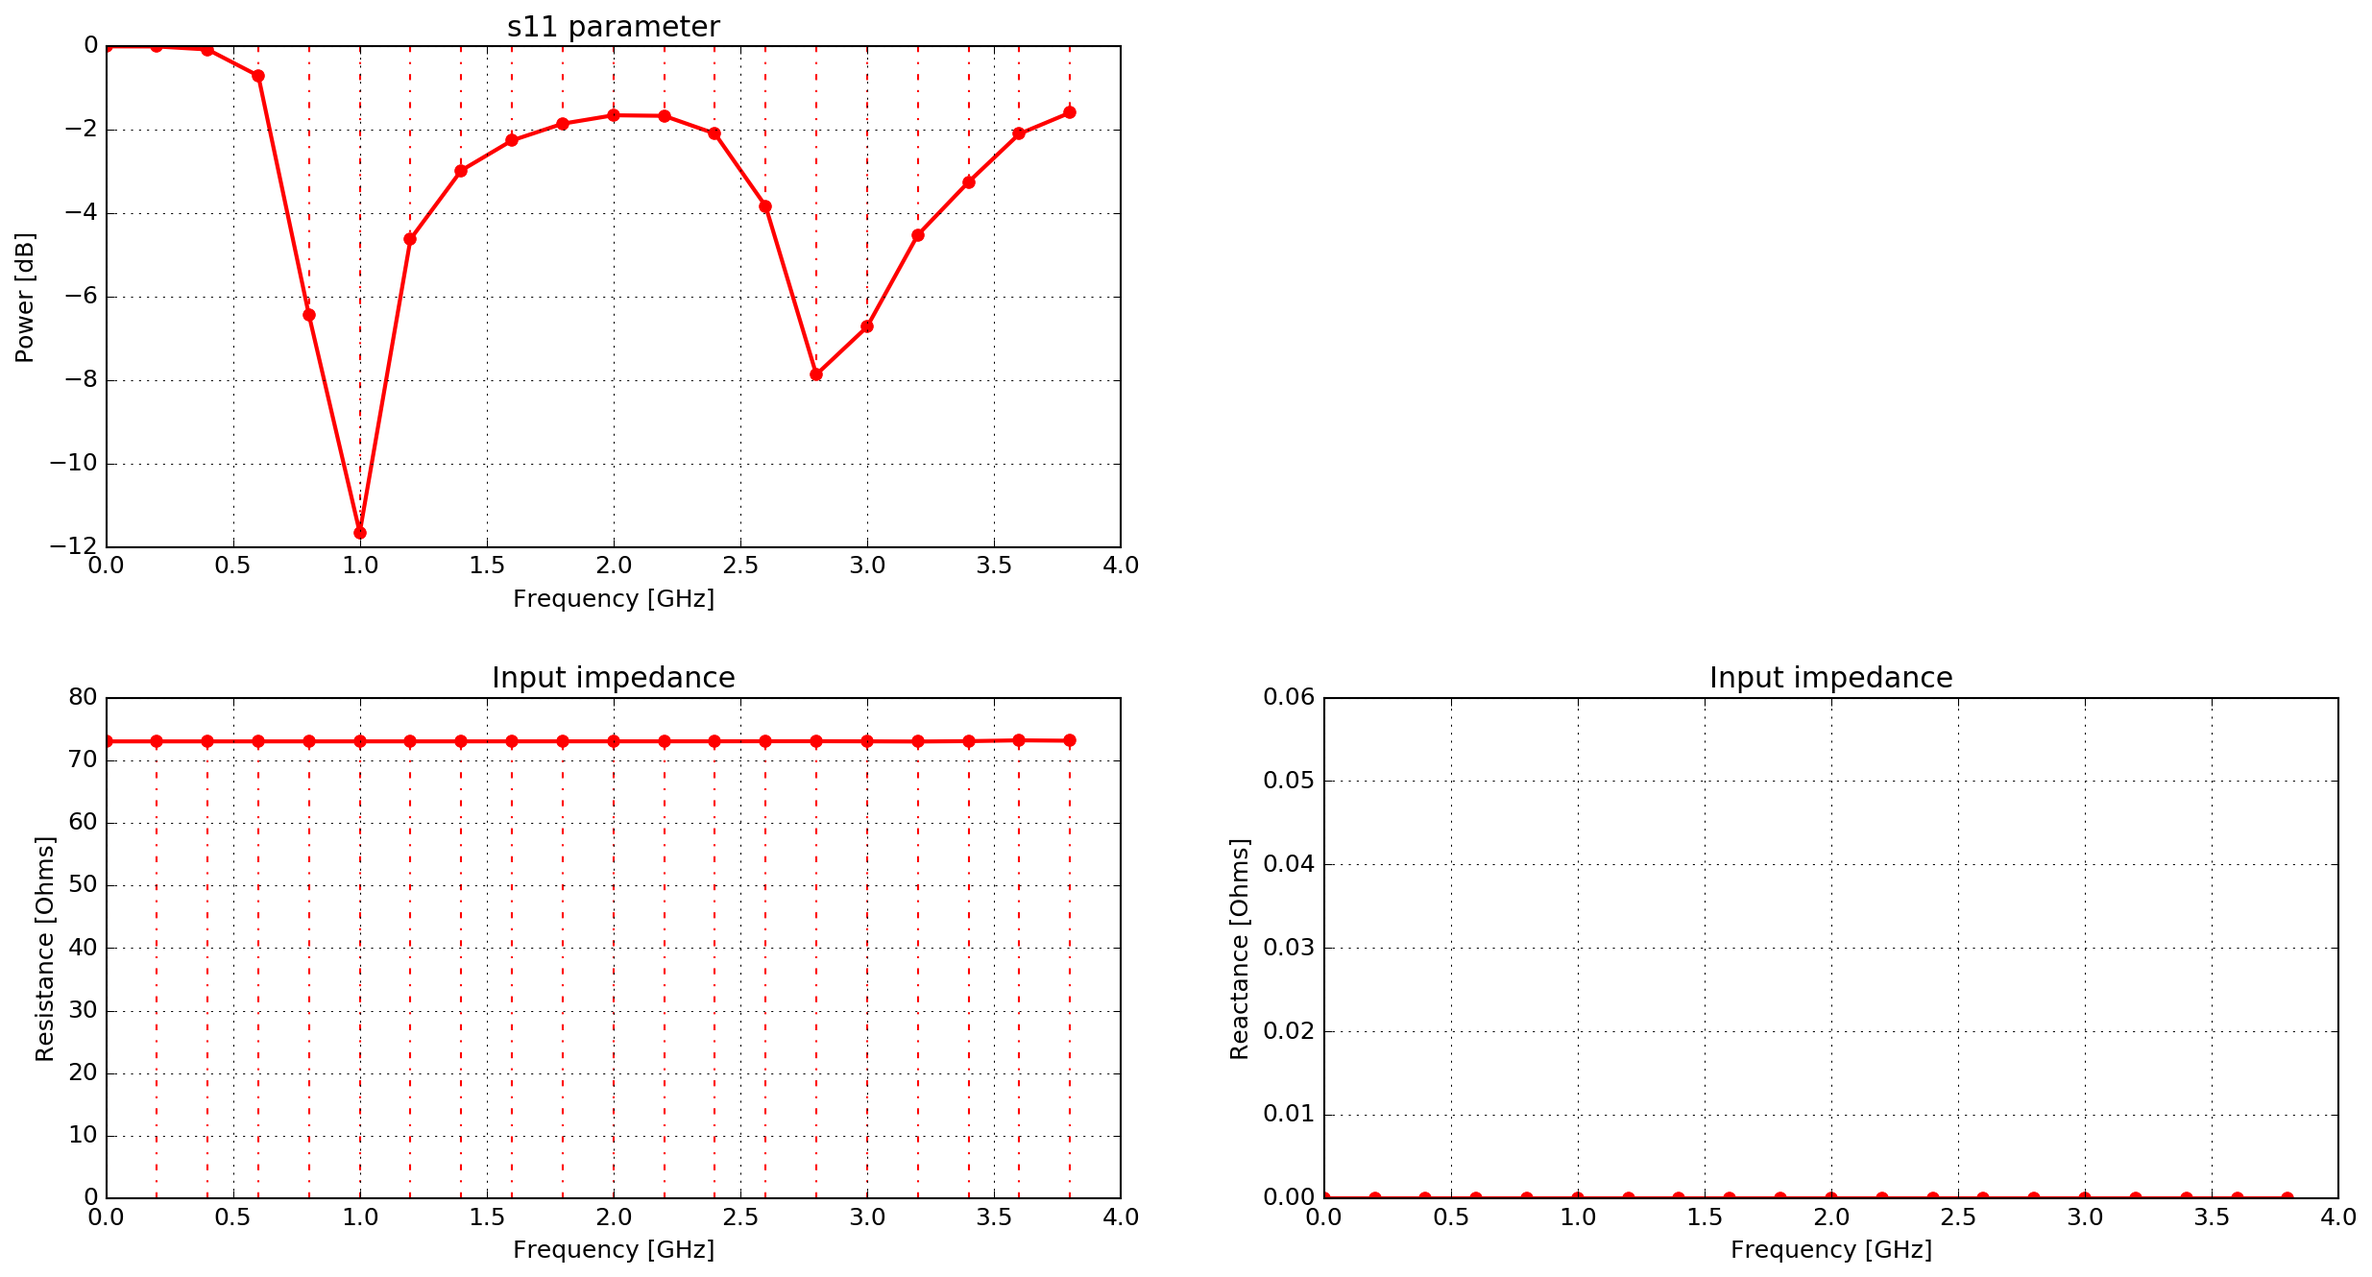
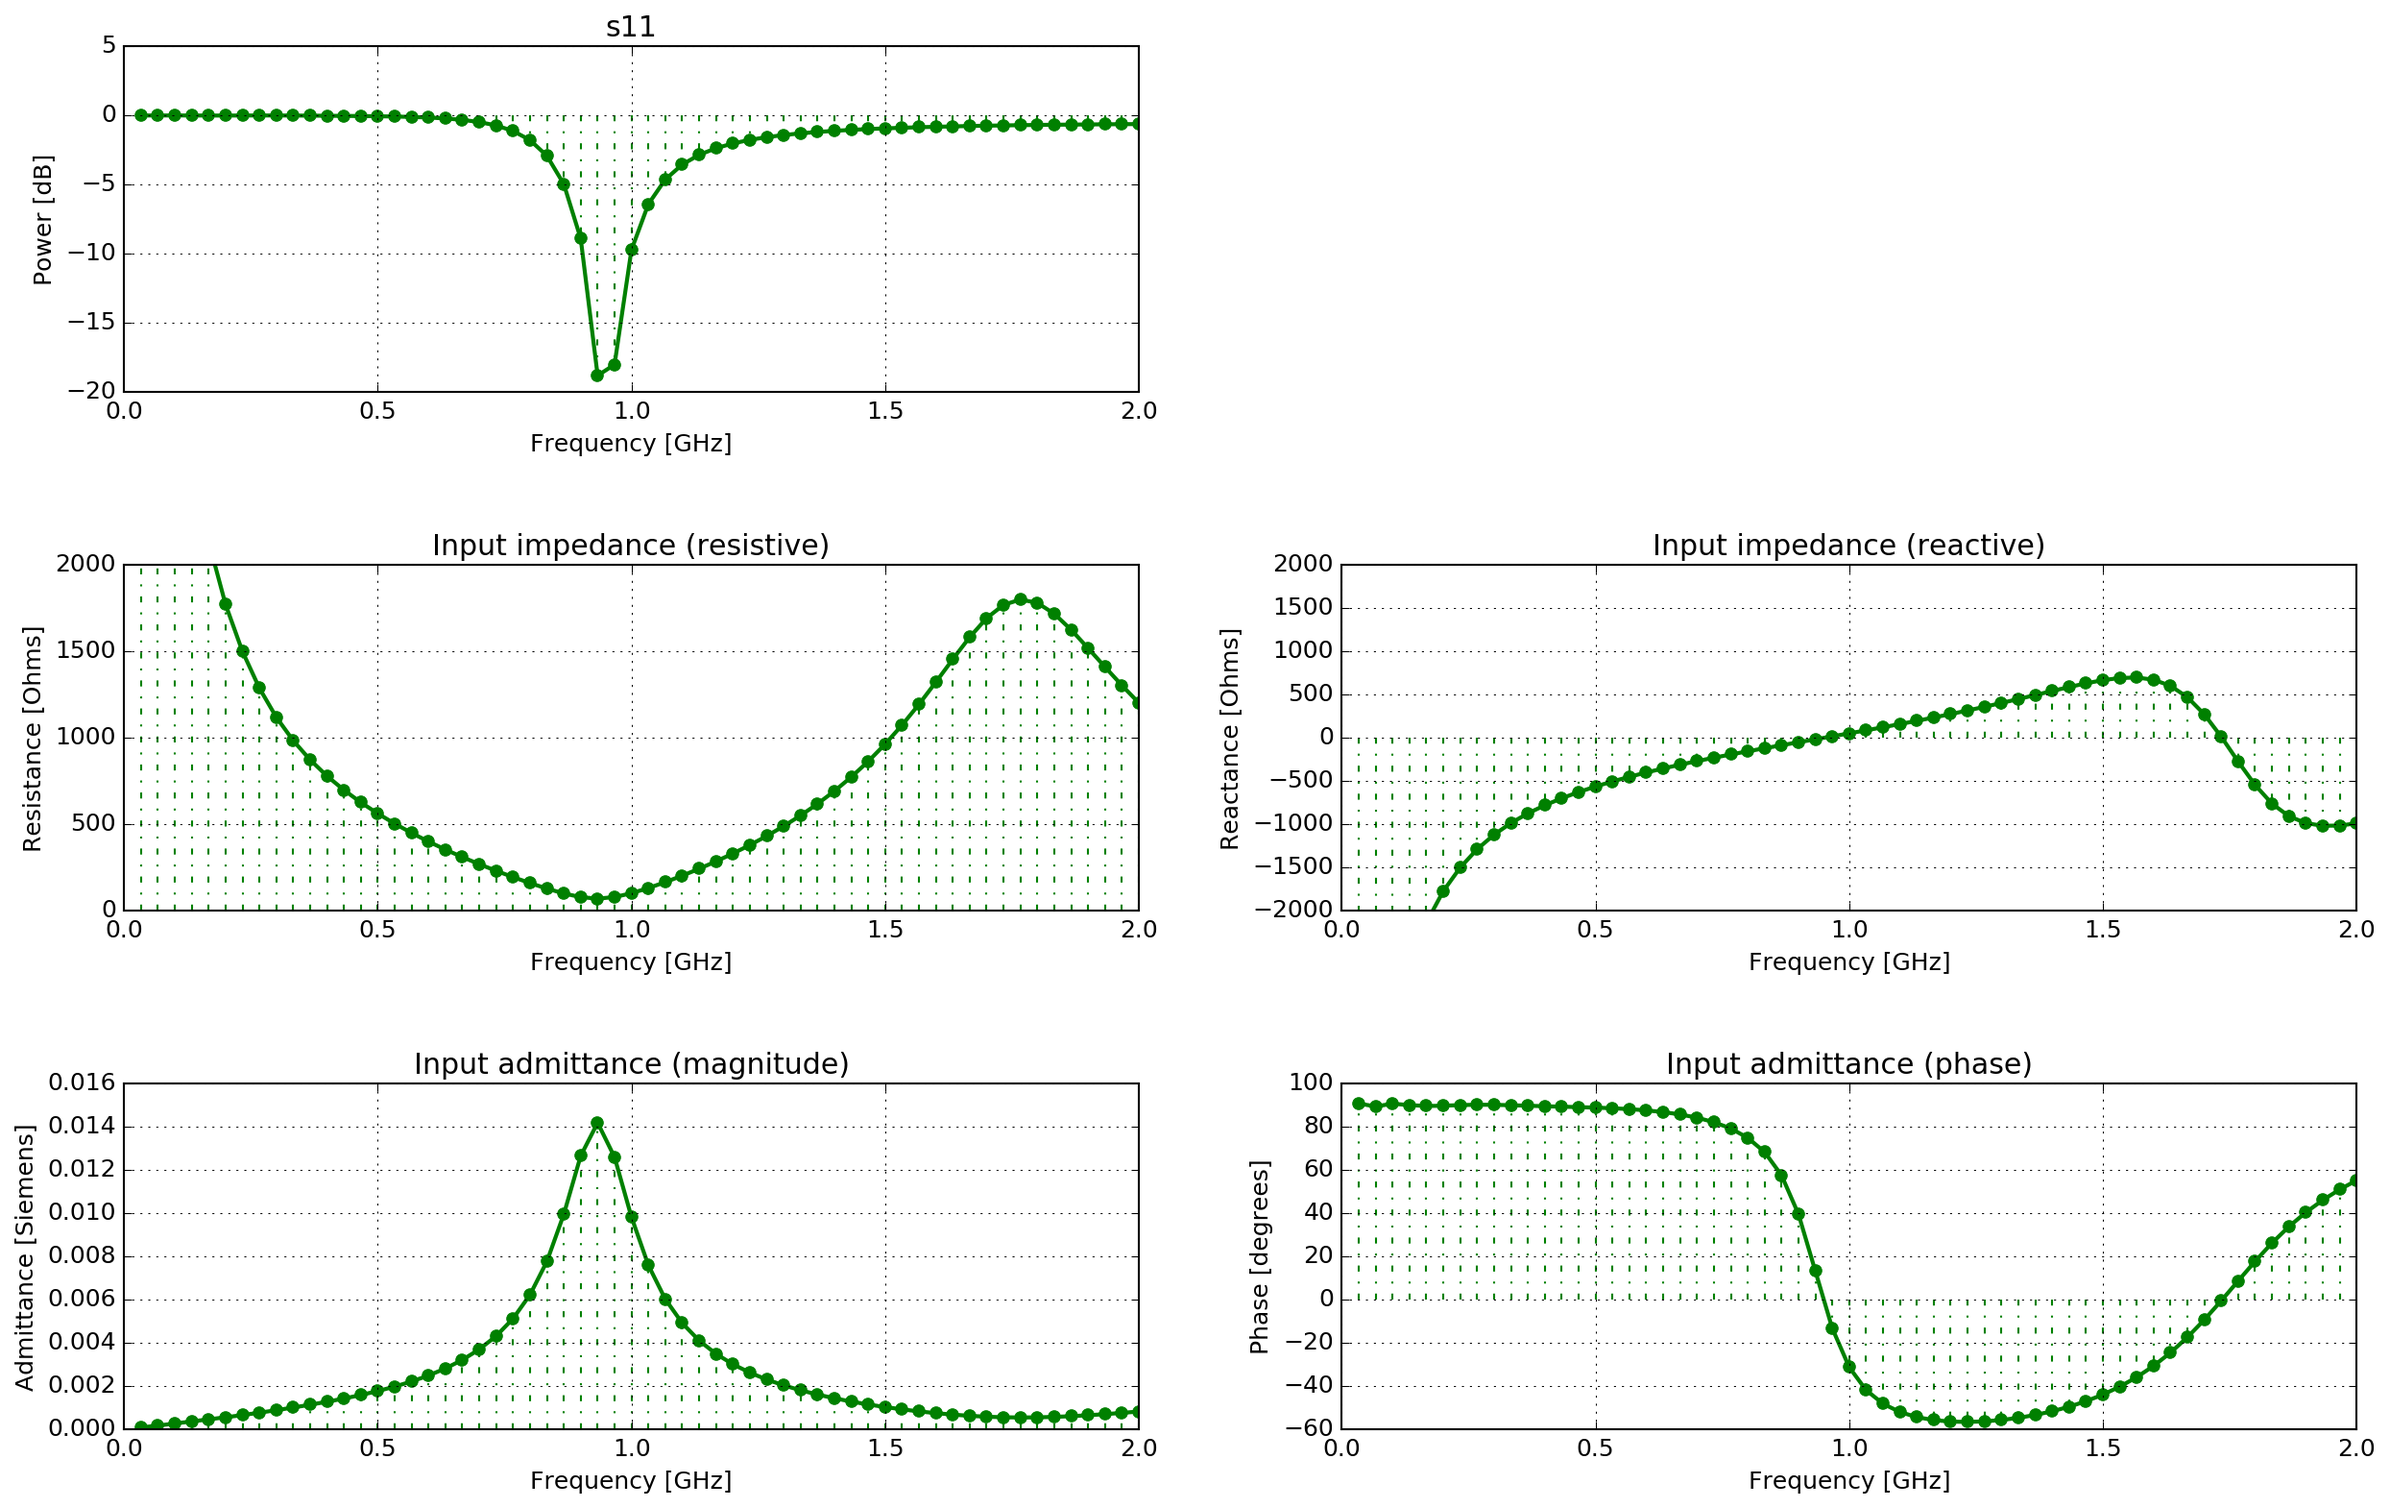
Updated example on wire dipole model.

diff --git a/docs/source/examples_antennas.rst b/docs/source/examples_antennas.rst
@@ -4,25 +4,22 @@ Antenna models
 
 This section provides some example models of antennas. Each example comes with an input file which you can download and run.
 
+.. _example-wire-dipole:
+
 Wire dipole antenna model
 =========================
 
-**INFO ON THIS MODEL IN PROGRESS**
-
 :download:`antenna_wire_dipole_fs.in <../../user_models/antenna_wire_dipole_fs.in>`
 
-This example demonstrates a model of a half-wavelength wire dipole antenna in free space. The length of the dipole is 150mm with a diameter of 6mm, and a 1mm gap between the arms.
+This example demonstrates a model of a half-wavelength wire dipole antenna in free space. It is a balanced antenna and it's characteristics are well known from theory _[BAL2005]. The length of the dipole is 150mm with a 1mm gap between the arms.
 
 .. literalinclude:: ../../user_models/antenna_wire_dipole_fs.in
     :language: none
     :linenos:
 
-.. figure:: images/antenna_wire_dipole.png
-    :width: 600 px
+The wire is modelled using the ``#edge`` command which specifies properties of the edge of the Yee cell. The antenna is fed using the ``#transmission_line`` command. The one-dimensional transmission line model virtually attaches to the dipole at the gap between the arms. The antenna has an input impedance (:math:`Z_0`) of 73 Ohms specified in the ``#transmission_line`` command, and uses a Gaussian waveform with a centre frequency of 1GHz.
 
-    FDTD geometry mesh showing a wire dipole antenna model.
-
-The antenna is fed using the ``#transmission_line`` command. The one-dimensional transmission line model virtually attaches to the dipole at the gap between the arms. The antenna has an input impedance (:math:`Z_0`) of 73 Ohms specified in the ``#transmission_line`` command. The transmission line uses a Gaussian waveform with a centre frequency of 1GHz.
+Time histories of voltage and current values in the transmission line are saved to the output file. These are documented in the :ref:`output file section <output>`. These parameters are useful for calculating characteristics of the antenna such as the input impedance or S-parameters. gprMax includes a Python module (in the ``tools`` package) to help you view the input impedance and admittance and s11 parameter from an antenna model fed using a transmission line. Details of how to use this module is given in the :ref:`tools section <plotting>`.
 
 Results
 -------
@@ -31,15 +28,15 @@ Results
 
 .. figure:: images/antenna_wire_dipole_fs_tl_params.png
 
-    Time and frequency domain plots of the incident and reflected (scattered) voltages in the transmission line.
-
-Explanation of figures.
+    Time and frequency domain plots of the incident and total (incident + reflected) voltages and currents in the transmission line.
 
 .. _antenna_wire_dipole_fs_ant_params:
 
 .. figure:: images/antenna_wire_dipole_fs_ant_params.png
 
-    s11 parameter and input impedance (resistance and reactance) of the antenna.
+    Input admittance and impedance (resistance and reactance) and s11 parameter of the antenna.
+
+:numref:`antenna_wire_dipole_fs_tl_params` shows time histories and frequency spectra of the incident and total (incident + reflected) voltages and currents in the transmission line. :numref:`antenna_wire_dipole_fs_ant_params` shows the input admittance and impedance (resistance and reactance), and s11 parameter of the half-wavelength wire dipole. The s11 parameter shows that the antenna is resonant at 1GHz which is what is expected from the geometry and feeding. The input resistance (the real part of the input impedance) is 73 Ohms which is what is predicted by theory. The input reactance (the imaginery part of the input impedance) is a function of the length of the dipole and is zero in this case.
 
 
 Bowtie antenna model

diff --git a/docs/source/input.rst b/docs/source/input.rst
@@ -764,7 +764,7 @@ For example, to specify a y directed voltage source with an internal resistance 
 #transmission_line:
 -------------------
 
-Allows you to introduce a one-dimensional transmission line model at an electric field location. The transmission line has a specified resistance. It is useful for exciting antennas when the physical properties of the antenna are included in the model. The syntax of the command is:
+Allows you to introduce a one-dimensional transmission line model [MAL1994]_ at an electric field location. The transmission line has a specified resistance. It is useful for exciting antennas when the physical properties of the antenna are included in the model. The syntax of the command is:
 
 .. code-block:: none
 
@@ -776,9 +776,11 @@ Allows you to introduce a one-dimensional transmission line model at an electric
 * ``f5 f6`` are optional parameters. ``f5`` is a time delay in starting the excitation of the transmission line. ``f6`` is a time to remove the excitation of the transmission line. If the time window is longer than the excitation of the transmission line removal time then the excitation of the transmission line will stop after the excitation of the transmission line removal time. If the excitation of the transmission line removal time is longer than the time window then the excitation of the transmission line will be active for the entire time window. If ``f5 f6`` are omitted the excitation of the transmission line will start at the beginning of time window and stop at the end of the time window.
 * ``str1`` is the identifier of the waveform that should be used with the source.
 
-Time histories of voltage and current values in the transmission line are saved to the output file. These are documented in the :ref:`output file section <output>`. These parameters are useful for calculating characteristics of an antenna such as the input impedance or S-parameters.
+Time histories of voltage and current values in the transmission line are saved to the output file. These are documented in the :ref:`output file section <output>`. These parameters are useful for calculating characteristics of an antenna such as the input impedance or S-parameters. gprMax includes a Python module (in the ``tools`` package) to help you view the input impedance and s11 parameter from an antenna model fed using a transmission line. Details of how to use this module is given in the :ref:`tools section <plotting>`.
 
 For example, to specify a z directed transmission line source with a resistance of 75 Ohms, an amplitude of five, and a 1.2 GHz centre frequency Gaussian waveform use: ``#waveform: gaussian 5 1.2e9 my_gauss_pulse`` and ``#transmission_line: z 0.05 0.05 0.05 75 my_gauss_pulse``.
+
+An example antenna model using a transmission line can be found in the :ref:`examples section <example-wire-dipole>`.
 
 #rx:
 ----

diff --git a/docs/source/references.rst b/docs/source/references.rst
@@ -2,6 +2,7 @@
 References
 **********
 
+.. [BAL2005] Balanis, C. A. (2005). Antenna theory: analysis and design (Vol. 1). John Wiley & Sons.
 .. [BER1998] Bergmann, T., Robertsson, J. O., & Holliger, K. (1998). Finite-difference modeling of electromagnetic wave propagation in dispersive and attenuating media. Geophysics, 63(3), 856-867. (http://dx.doi.org/10.1190/1.1444396)
 .. [BOU1996] Bourgeois, J. M., & Smith, G. S. (1996). A fully three-dimensional simulation of a ground-penetrating radar: FDTD theory compared with experiment. Geoscience and Remote Sensing, IEEE Transactions on, 34(1), 36-44. (http://dx.doi.org/10.1109/36.481890)
 .. [BUR1981] Burrough, P. A. (1981). Fractal dimensions of landscapes and other environmental data. Nature, 294(5838), 240-242. (http://dx.doi.org/10.1038/294240a0)
@@ -16,6 +17,7 @@ References
 .. [KUN1993] Kunz, K. S., & Luebbers, R. J. (1993). The finite difference time domain method for electromagnetics. CRC press.
 .. [LI2013] Li, J., Guo, L. X., Jiao, Y. C., & Wang, R. (2013). Composite scattering of a plasma-coated target above dispersive sea surface by the ADE-FDTD method. Geoscience and Remote Sensing Letters, IEEE, 10(1), 4-8. (http://dx.doi.org/10.1109/lgrs.2012.2189751)
 .. [LUE1994] Luebbers, R., Steich, D., & Kunz, K. (1993). FDTD calculation of scattering from frequency-dependent materials. Antennas and Propagation, IEEE Transactions on, 41(9), 1249-1257. (http://dx.doi.org/10.1109/8.247751)
+.. [MAL1994] Maloney, J. G., Shlager, K. L., & Smith, G. S. (1994). A simple FDTD model for transient excitation of antennas by transmission lines. Antennas and Propagation, IEEE Transactions on, 42(2), 289-292.
 .. [PIE2009] Pieraccini, M., Bicci, A., Mecatti, D., Macaluso, G., & Atzeni, C. (2009). Propagation of large bandwidth microwave signals in water. Antennas and Propagation, IEEE Transactions on, 57(11), 3612-3618. (http://dx.doi.org/10.1109/tap.2009.2025674)
 .. [TAF2005] Taflove, A., & Hagness, S. C. (2005). Computational electrodynamics. Artech house.
 .. [TEI1998] Teixeira, F. L., Chew, W. C., Straka, M., Oristaglio, M. L., & Wang, T. (1998). Finite-difference time-domain simulation of ground penetrating radar on dispersive, inhomogeneous, and conductive soils. Geoscience and Remote Sensing, IEEE Transactions on, 36(6), 1928-1937. (http://dx.doi.org/10.1109/36.729364)

diff --git a/docs/source/features.rst b/docs/source/features.rst
@@ -31,7 +31,7 @@ New commands
 * ``#add_dispersion_lorentz`` is used to add Lorentz dispersive properties to a ``#material``.
 * ``#add_dispersion_drude`` is used to add Drude dispersive properties to a ``#material``.
 * ``#soil_peplinski`` is a soil mixing model that can be used with ``#fractal_box`` to generate soil(s) with more realistic dielectric and geometric properties.
-* ``#cylindrical_sector`` (like a slice of pie shape) is a new object building command.
+* ``#cylindrical_sector`` is a new object building command.
 * ``#geometry_view`` replaces ``#geometry_file`` or ``#geometry_vtk`` and is used to create views of the geometry of the model in open source Visualization ToolKit (VTK) (http://www.vtk.org) format which can be viewed in many free readers, such as Paraview (http://www.paraview.org).
 * ``#fractal_box`` is used to create a volume with a fractal distribution of properties.
 * ``#add_surface_roughness`` is used to add a rough surface to a ``#fractal_box``.
@@ -51,7 +51,7 @@ Changed commands
 * ``#pml_cells`` replaces ``#pml_layers`` and can now be used to control the number of cells of PML on the six faces of the model domain. The number of cells can be set to zero on any of the faces to turn that PML off if desired. The default behaviour (if this command is not specified) is to use 10 cells.
 * ``#hertzian_dipole`` and ``#voltage_source`` now specify polarisation, location, any additional parameters, and an identifier to link to a ``#waveform`` command.
 * ``#snapshot`` no longer requires a type, as only VTK snapshot files are now produced.
-* ``#num_of_procs`` is now called ``#num_omp_threads``.
+* ``#num_of_procs`` is now called ``#num_threads``.
 * ``#tx_steps`` is now called ``#src_steps``.
 
 
@@ -75,7 +75,7 @@ Retired commands
 Commands yet to be implemented
 ------------------------------
 
-There are commands from previous versions of gprMax that are planned for this version, but are yet to be implemented. These will be introduced in a future update. They are``#thin_wire`` and ``#plane_wave``.
+There are commands from previous versions of gprMax that are planned for this version, but are yet to be implemented. These will be introduced in a future update. They are ``#thin_wire`` and ``#plane_wave``.
 
 
 Migrating old input files

diff --git a/docs/source/faqs.rst b/docs/source/faqs.rst
@@ -20,12 +20,12 @@ No, but it can be beneficial to know a little Python. We have made it easier to 
 Yes, we have provided tools to help you read the new HDF5-based output file in MATLAB.
 
 **But converting my input file from the old version of gprMax will be really painful**
-Hopefully not! We have provided a Python script to help you convert input files from the old version of gprMax to use syntax introduced in the version.
+Hopefully not! We have provided a Python script to help you convert input files from the old version of gprMax to use syntax introduced in version 3.
 
 **How do I choose a spatial resolution for my simulation?**
 Spatial resolution should be chosen to mitigate numerical dispersion and to adequately resolve geometry in your simulation. :ref:`A 2D example of modelling a metal cylinder in a dielectric <example-2D-Ascan>` provides guidance on how to determine spatial resolution.
 
-**I specified a certain piece of geometry but I don’t see when I view my geometry file.**
+**I specified a certain piece of geometry but I don’t see it when I view my geometry file.**
 gprMax builds objects in a model in the order the objects were specified in the input file, using a layered canvas approach. This means, for example, a cylinder object which comes after a box object in the input file will overwrite the properties of the box object at any locations where they overlap. This approach allows complex geometries to be created using basic object building blocks.
 
 **Can I run gprMax on my HPC/cluster?**

diff --git a/docs/source/plotting.rst b/docs/source/plotting.rst
@@ -48,6 +48,24 @@ where:
 * ``--field`` is the name of field component to plot, e.g. ``Ex``, ``Ey``, ``Ez``, ``Hx``, ``Hy`` or ``Hz``
 
 
+Antenna parameters
+==================
+
+plot_antenna_params.py
+----------------------
+
+This module uses matplotlib to plot the input impedance (resistance and reactance) and s11 parameter from an antenna model fed using a transmission line. It also plots the time history of the incident and reflected voltages in the transmission line and their frequency spectra. Usage (from the top-level gprMax directory) is:
+
+.. code-block:: none
+
+    python -m tools.plot_antenna_params outputfile --tln transmissionlinenumber
+
+where:
+
+* ``outputfile`` is the name of output file including the path
+* ``--tln`` is the number of the transmission line (default is one). Transmission lines are numbered (starting at one) in the order they appear in the input file.
+
+
 .. _waveforms:
 
 Built-in waveforms
